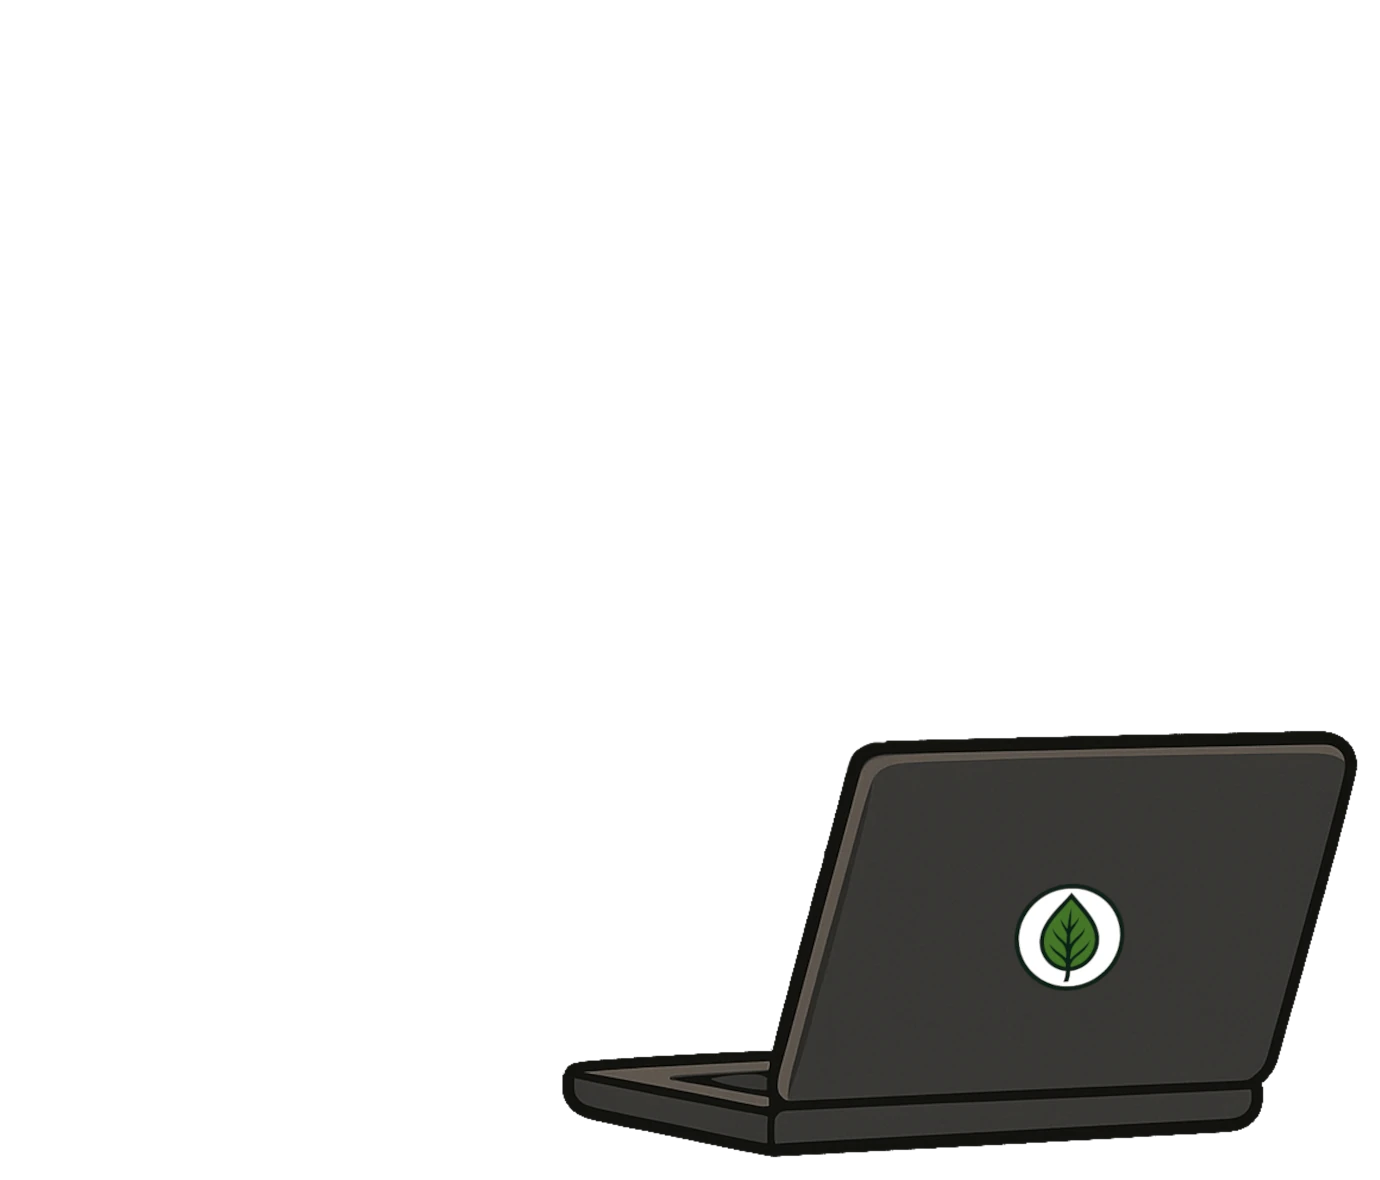
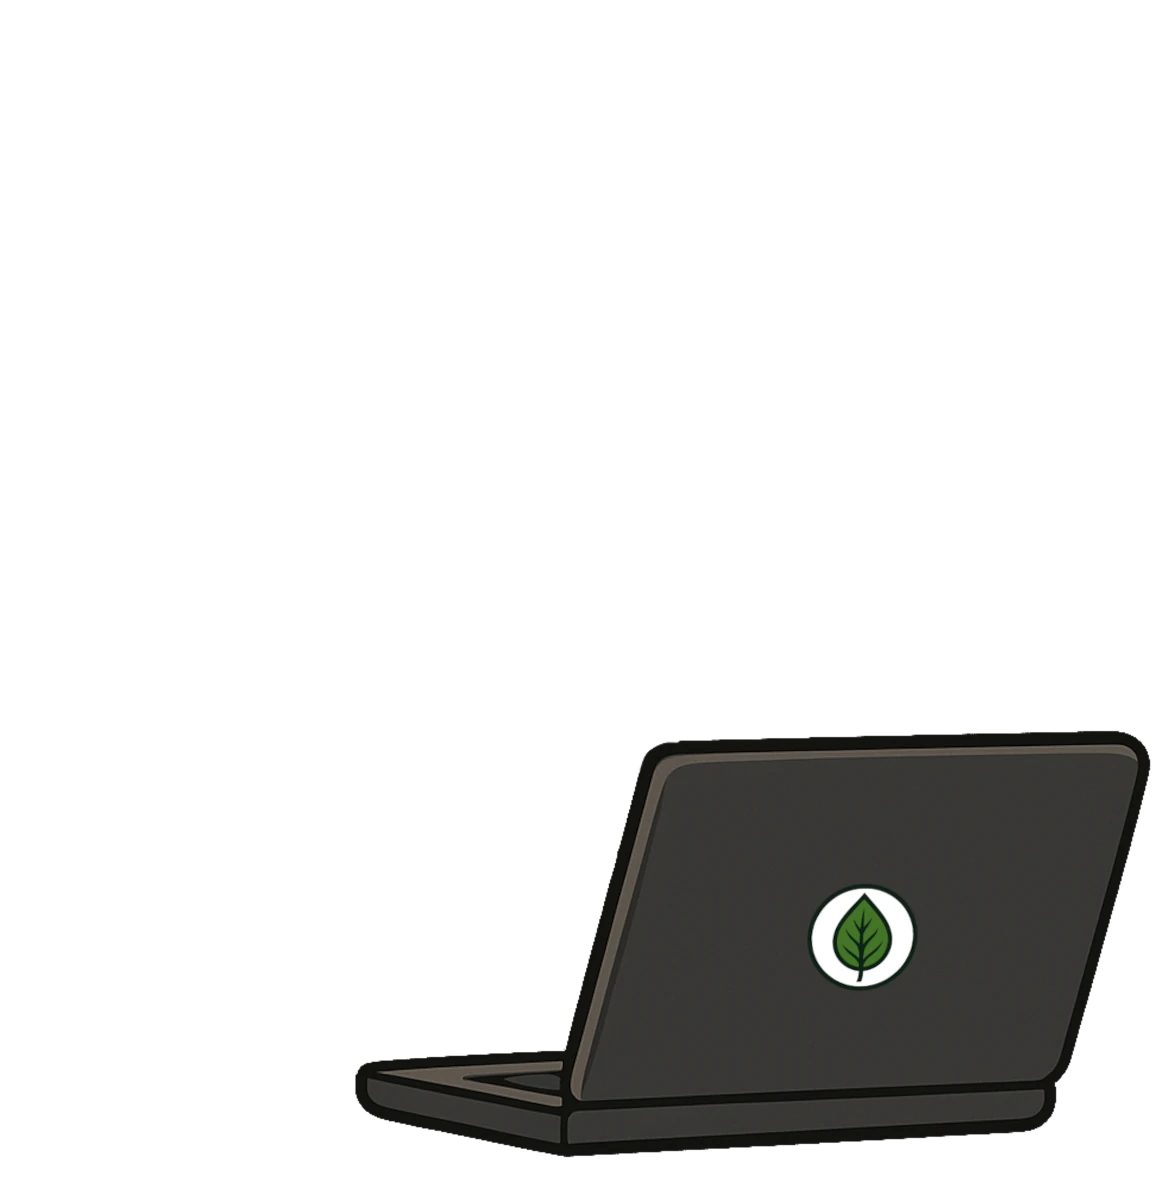
adjust image size in AboutPage

Changed region(s): [[0.3069, 0.6102, 0.9821, 1.0], [0.6752, 0.7322, 0.8286, 0.8542]]

diff --git a/src/pages/AboutPage.css b/src/pages/AboutPage.css
@@ -6,8 +6,8 @@
 
 .about-content {
   row-gap: 0rem;
-  column-gap: 0;
-  grid-template-columns: 41fr 59fr;
+  column-gap: 8rem;
+  grid-template-columns: 38fr 62fr;
 }
 
 .about-content--portrait {
@@ -20,7 +20,6 @@
   height: auto;
   position: absolute;
   top: 0;
-  left: -8rem;
   transition: all 0.5s;
 }
 
